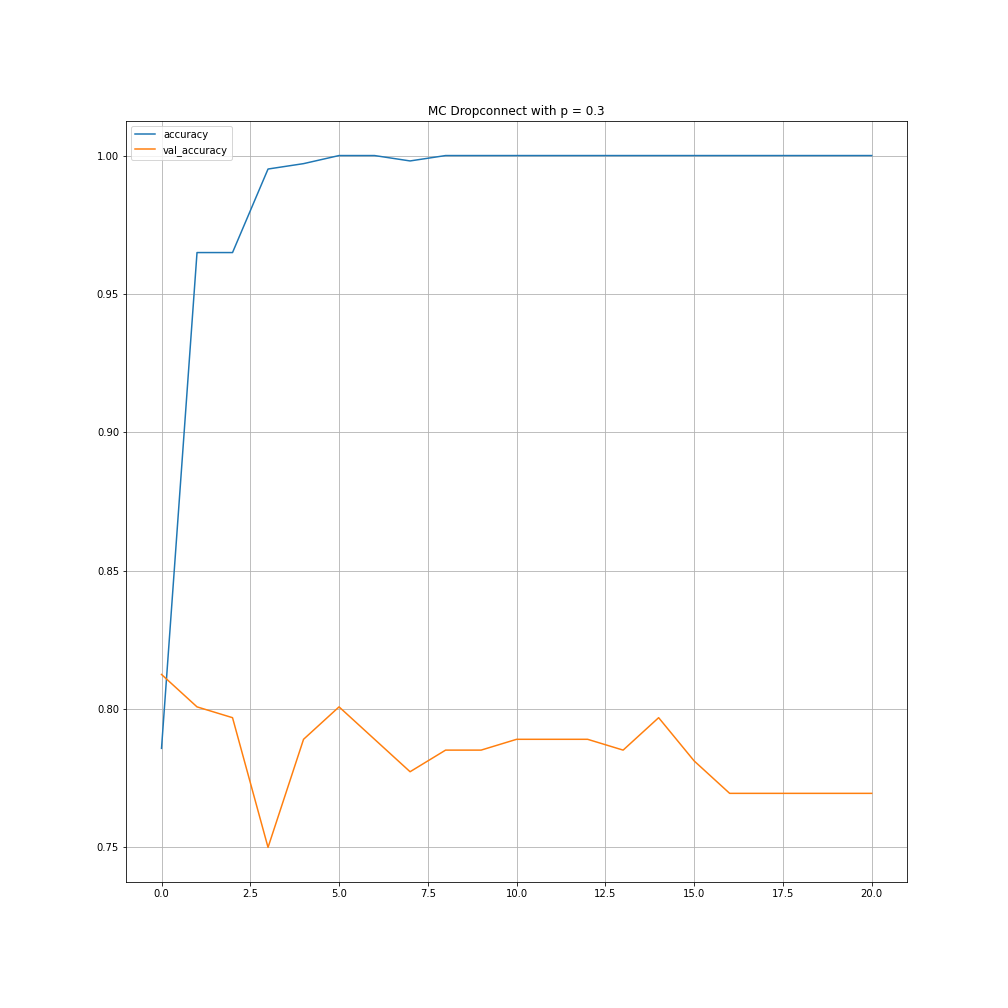
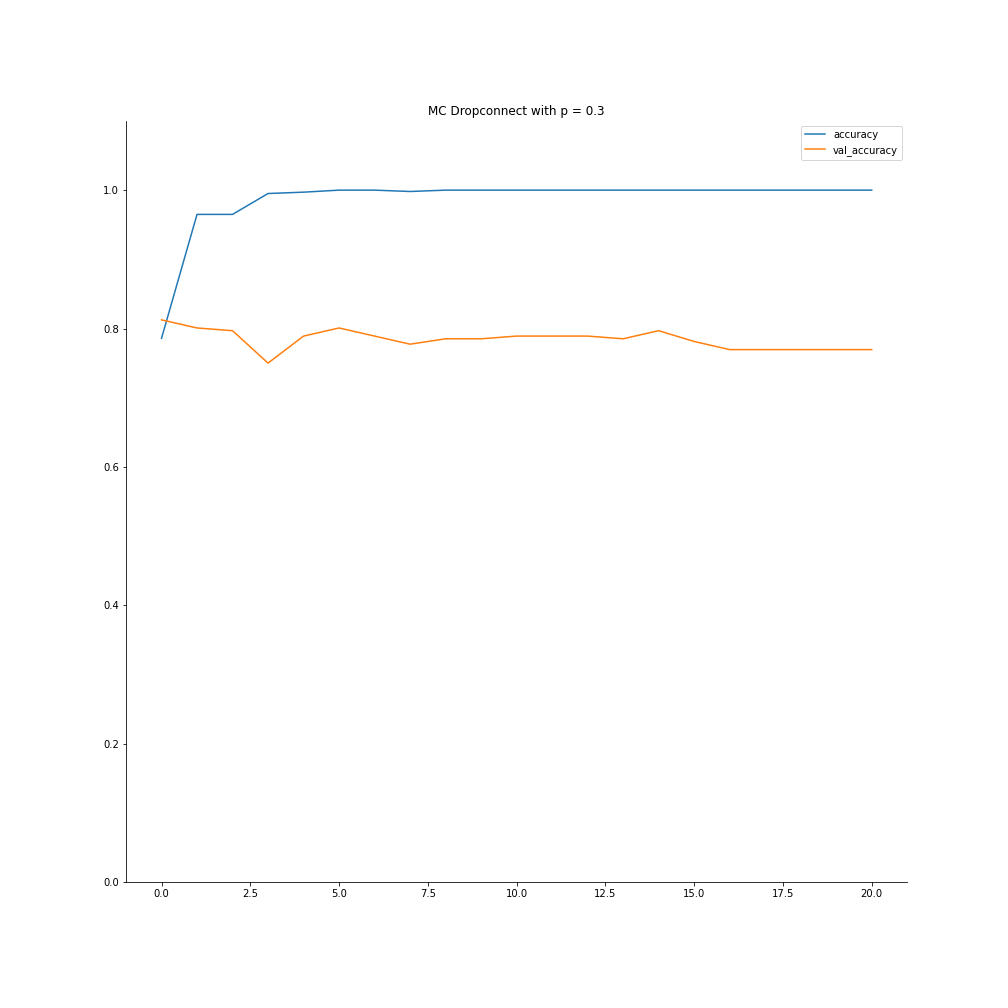
Reorganized plotting file and separated helper functions.

diff --git a/code/dropout_plotting.py b/code/dropout_plotting.py
@@ -1,24 +1,20 @@
 #%%
 
-import itertools
 import matplotlib.pyplot as plt
-import numpy as np
 import os
-import pandas as pd
 import pathlib
 import pickle
 import PIL
 import random
-import regex as re
-from tqdm import tqdm
 
 import tensorflow as tf
 import tensorflow_datasets as tfds
+
+from helper_functions import evaluate_measures, plot_history, plot_measures, load_measures
 from HH_CNN import CNNDropConnect, CNNDropout, CNNPlotter
 os.chdir(os.path.dirname(os.path.realpath(__file__)))
 
 #Global Variables
-tf.random.set_seed(1234)
 DATA_DIR = pathlib.Path("horse_or_human")
 LABELS = {0: "horse", 1: "human"}
 CHECKPOINT_PATH = "checkpoints"
@@ -26,54 +22,6 @@ SAVEPATH = "figs"
 modelnames = ["dropout_p5", "dropout_p7", "dropconnect_p3", "dropconnect_p5"]
 os.makedirs(SAVEPATH, exist_ok=True)
 
-#Helper Function
-
-def plot_history(history, cols, title=""):
-    results = pd.DataFrame(history)
-    results = results.loc[:, cols]
-    fig, ax = plt.subplots(figsize=(14,14))
-    ax = results.plot(ax=ax)
-    ax.set_title(title)
-    ax.grid(True)
-    return fig
-
-def evaluate_measures(SAVEPATH, model_titles, plotters, use_mc, datasets, dataset_names, 
-                      out_sample, wrong_color, max_batches=5, T = 10):
-    for (title, plotter, mc) in zip(model_titles, plotters, use_mc):
-        for dataset_name, dataset, out, color in zip(dataset_names, datasets, out_sample, wrong_color):
-            loader = iter(dataset)
-            plotter.reset_measures()
-            for _ in tqdm(range(min(max_batches, len(dataset)))):
-                images, labels = next(loader)
-                plotter.gather_measures(images, labels, out_sample=out, mc=mc, T=T)
-            with open (os.path.join(SAVEPATH, f"{title}_{dataset_name}_measures.pkl"), "wb") as outfile:
-                pickle.dump((plotter.correct_scores, plotter.wrong_scores), outfile)
-            print(f"Measures saved for {title} {dataset_name}")
-            wrong_label = dataset_name if out else "Wrong"
-            if out:
-                new_fig = False
-            else:
-                new_fig = True
-            plotter.plot_measures(title=f"{title}", out_sample=out, wrong_color=color, 
-                                  wrong_label=wrong_label, new_fig=new_fig)
-        model_title = title.replace(" ", "_")
-        plotter.save_fig(os.path.join(SAVEPATH, f"{model_title.lower()}_eval.png"))
-
-
-#%%
-#Plot some horses and some humans
-humans = list(DATA_DIR.glob('*/humans/*'))
-horses = list(DATA_DIR.glob('*/horses/*'))
-horse_sample = [PIL.Image.open(str(horse)) for horse in random.sample(horses, 8)]
-human_sample = [PIL.Image.open(str(human)) for human in random.sample(humans, 8)]
-
-cnn_plotter = CNNPlotter()
-cnn_plotter.plot_batch(horse_sample, 2, 4, figsize=(8, 16))
-cnn_plotter.fig
-
-#%%
-cnn_plotter.plot_batch(human_sample, 2, 4, figsize=(8, 16))
-cnn_plotter.fig
 #%%
 #Load the data
 batch_size = 16
@@ -117,48 +65,20 @@ mc_dropconnect.compile(optimizer=optimizer, loss=loss_fn)
 mc_dropout.load_weights(os.path.join(CHECKPOINT_PATH, modelnames[0]))
 mc_dropconnect.load_weights(os.path.join(CHECKPOINT_PATH, modelnames[2]))
 
+#%%
+#Plot some horses and some humans
+humans = list(DATA_DIR.glob('*/humans/*'))
+horses = list(DATA_DIR.glob('*/horses/*'))
+horse_sample = [PIL.Image.open(str(horse)) for horse in random.sample(horses, 8)]
+human_sample = [PIL.Image.open(str(human)) for human in random.sample(humans, 8)]
+
+cnn_plotter = CNNPlotter()
+cnn_plotter.plot_batch(horse_sample, 2, 4, figsize=(8, 16))
+cnn_plotter.fig
 
 #%%
-#Plot our training losses
-
-with open(os.path.join(CHECKPOINT_PATH, f"{modelnames[0]}_history.pkl"), "rb") as infile:
-    dropout_hist = pickle.load(infile)
-
-with open(os.path.join(CHECKPOINT_PATH, f"{modelnames[2]}_history.pkl"), "rb") as infile:
-    dropconnect_hist = pickle.load(infile)
-
-#Plot our losses
-
-dropout_acc_fig = plot_history(dropout_hist, ["accuracy", "val_accuracy"], "MC Dropout with p = 0.5")
-dropconnect_acc_fig = plot_history(dropconnect_hist, ["accuracy", "val_accuracy"], "MC Dropconnect with p = 0.3")
-
-dropout_acc_fig.savefig(os.path.join(SAVEPATH, "dropout_acc.png"), facecolor="white", transparent=False)
-dropconnect_acc_fig.savefig(os.path.join(SAVEPATH, "dropconnect_acc.png"), facecolor="white", transparent=False)
-#%%
-
-fig_files = os.listdir(SAVEPATH)
-
-pkl_filter = re.compile(r'^.*pkl')
-
-pkl_files = list(filter(pkl_filter.search, fig_files))
-
-models = ["softmax", "dropout", "dropconnect"]
-datasets = ["horse", "cat", "flower"]
-scores = ["correct", "wrong"]
-
-measures = {}
-
-for m in models:
-    m_filter = re.compile(fr'^.*(?i){m}.*')
-    m_files = list(filter(m_filter.search, pkl_files))
-    for d in datasets:
-        d_filter = re.compile(fr'^.*(?i){d}.*')
-        d_files = list(filter(d_filter.search, m_files))
-        with open (os.path.join(SAVEPATH, d_files[0]), "rb") as infile:
-            correct, wrong = pickle.load(infile)
-        measures[f"{m}_{d}_correct"] = correct
-        measures[f"{m}_{d}_wrong"] = wrong
-
+cnn_plotter.plot_batch(human_sample, 2, 4, figsize=(8, 16))
+cnn_plotter.fig
 
 #%%
 #Plot some predictions!
@@ -187,37 +107,90 @@ for m in models:
 # cnn_plotter.plot_batch(images, 4, 4, predict=True, mc=True, T=100)
 # flowers_fig = cnn_plotter.fig
 
-# %%
-model_titles = ["Softmax", "MC Dropout", "MC DropConnect"]
-use_mc = [False, True, True]
-plotters = [
-    CNNPlotter(mc_dropout, labels=LABELS),
-    CNNPlotter(mc_dropout, labels=LABELS),
-    CNNPlotter(mc_dropconnect, labels=LABELS)
-]
-datasets = [
-    val_ds, 
-    catsdogs["train"],
-    flowers["train"]
-]
-dataset_names = [
-    "Horse and Human",
-    "Cats and Dogs",
-    "Flowers"
-]
-out_sample = [False, True, True]
-wrong_color = ["tab:red", "tab:brown", "tab:olive"]
 
-evaluate_measures(
-    SAVEPATH, 
-    model_titles=["MC DropConnect"], 
-    plotters=[CNNPlotter(mc_dropconnect, labels=LABELS)], 
-    use_mc=[True], 
-    datasets=datasets, 
-    dataset_names=dataset_names, 
-    out_sample=out_sample, 
-    wrong_color=wrong_color,
-    max_batches=16,
-    T=100,
-)
+#%%
+#Plot our training losses
 
+with open(os.path.join(CHECKPOINT_PATH, f"{modelnames[0]}_history.pkl"), "rb") as infile:
+    dropout_hist = pickle.load(infile)
+
+with open(os.path.join(CHECKPOINT_PATH, f"{modelnames[2]}_history.pkl"), "rb") as infile:
+    dropconnect_hist = pickle.load(infile)
+
+#Plot our losses
+
+dropout_acc_fig = plot_history(dropout_hist, ["accuracy", "val_accuracy"], "MC Dropout with p = 0.5")
+dropconnect_acc_fig = plot_history(dropconnect_hist, ["accuracy", "val_accuracy"], "MC Dropconnect with p = 0.3")
+
+dropout_acc_fig.savefig(os.path.join(SAVEPATH, "dropout_acc.png"), facecolor="white", transparent=False)
+dropconnect_acc_fig.savefig(os.path.join(SAVEPATH, "dropconnect_acc.png"), facecolor="white", transparent=False)
+#%%
+
+#Load Prediction Measures
+
+models = ["softmax", "dropout", "dropconnect"]
+datasets = ["horse", "cat", "flower"]
+types = ["correct", "wrong"]
+colors = ["tab:blue", "tab:orange", "tab:purple", "tab:olive"]
+data_titles = {"horse": "Horse and Human", "cat": "Cats vs Dogs", "flower": "Flowers"}
+
+measures = load_measures(SAVEPATH, models, datasets)
+
+#%%
+#Plot Prediction Measures
+
+datset_figs = []
+for data in datasets:
+    scores = [f"{m}_{data}_wrong" for m in models]
+    labels = [m.capitalize() for m in models]
+    datset_figs.append(plot_measures(measures, scores, colors, labels, title=data_titles[data])) 
+
+comp_fig, axs = plt.subplots(3, 1, figsize=(15, 15), tight_layout=True, sharey=False, sharex=True)
+for ax, model in zip(axs.ravel(), models):
+    plot_measures(
+        measures, 
+        scores=[f"{model}_horse_{t}" for t in types], 
+        colors=colors, 
+        labels=[t.capitalize() for t in types], 
+        ax=ax, 
+        title=model.capitalize()
+    )
+comp_fig.text(x=0.35, y = 3.35, s="Horse and Human Classification", fontsize=20, transform=ax.transAxes)
+
+
+#%%
+
+#Measure Evaluation
+
+# model_titles = ["Softmax", "MC Dropout", "MC DropConnect"]
+# use_mc = [False, True, True]
+# plotters = [
+#     CNNPlotter(mc_dropout, labels=LABELS),
+#     CNNPlotter(mc_dropout, labels=LABELS),
+#     CNNPlotter(mc_dropconnect, labels=LABELS)
+# ]
+# datasets = [
+#     val_ds, 
+#     catsdogs["train"],
+#     flowers["train"]
+# ]
+# dataset_names = [
+#     "Horse and Human",
+#     "Cats and Dogs",
+#     "Flowers"
+# ]
+# out_sample = [False, True, True]
+# wrong_color = ["tab:red", "tab:brown", "tab:olive"]
+
+# evaluate_measures(
+#     SAVEPATH, 
+#     model_titles=["MC DropConnect"], 
+#     plotters=[CNNPlotter(mc_dropconnect, labels=LABELS)], 
+#     use_mc=[True], 
+#     datasets=datasets, 
+#     dataset_names=dataset_names, 
+#     out_sample=out_sample, 
+#     wrong_color=wrong_color,
+#     max_batches=16,
+#     T=100,
+# )

diff --git a/code/helper_functions.py b/code/helper_functions.py
@@ -1,0 +1,77 @@
+import matplotlib.pyplot as plt
+import os
+import pandas as pd
+import pickle
+import regex as re
+import seaborn as sns
+from tqdm import tqdm
+
+
+def plot_history(history, cols, title=""):
+    results = pd.DataFrame(history)
+    results = results.loc[:, cols]
+    fig, ax = plt.subplots(figsize=(14,14))
+    ax = results.plot(ax=ax)
+    ax.set_ylim(0,1.1)
+    ax.set_title(title)
+    ax.spines["top"].set_visible(False)
+    ax.spines["right"].set_visible(False)
+    return fig
+
+def evaluate_measures(SAVEPATH, model_titles, plotters, use_mc, datasets, dataset_names, 
+                      out_sample, wrong_color, max_batches=5, T = 10):
+    for (title, plotter, mc) in zip(model_titles, plotters, use_mc):
+        for dataset_name, dataset, out, color in zip(dataset_names, datasets, out_sample, wrong_color):
+            loader = iter(dataset)
+            plotter.reset_measures()
+            for _ in tqdm(range(min(max_batches, len(dataset)))):
+                images, labels = next(loader)
+                plotter.gather_measures(images, labels, out_sample=out, mc=mc, T=T)
+            with open (os.path.join(SAVEPATH, f"{title}_{dataset_name}_measures.pkl"), "wb") as outfile:
+                pickle.dump((plotter.correct_scores, plotter.wrong_scores), outfile)
+            print(f"Measures saved for {title} {dataset_name}")
+            wrong_label = dataset_name if out else "Wrong"
+            if out:
+                new_fig = False
+            else:
+                new_fig = True
+            plotter.plot_measures(title=f"{title}", out_sample=out, wrong_color=color, 
+                                  wrong_label=wrong_label, new_fig=new_fig)
+        model_title = title.replace(" ", "_")
+        plotter.save_fig(os.path.join(SAVEPATH, f"{model_title.lower()}_eval.png"))
+
+def load_measures(SAVEPATH, models, datasets):
+    fig_files = os.listdir(SAVEPATH)
+    pkl_filter = re.compile(r'^.*pkl')
+    pkl_files = list(filter(pkl_filter.search, fig_files))
+    measures = {}
+    for m in models:
+        m_filter = re.compile(fr'^.*(?i){m}.*')
+        m_files = list(filter(m_filter.search, pkl_files))
+        for d in datasets:
+            d_filter = re.compile(fr'^.*(?i){d}.*')
+            d_files = list(filter(d_filter.search, m_files))
+            with open (os.path.join(SAVEPATH, d_files[0]), "rb") as infile:
+                correct, wrong = pickle.load(infile)
+            measures[f"{m}_{d}_correct"] = correct
+            measures[f"{m}_{d}_wrong"] = wrong
+    return measures
+
+def plot_measures(measures_dict, scores, colors, labels, ax = None, title=""):
+    if ax == None:
+        fig, ax = plt.subplots(figsize=(12,12), tight_layout=True)
+    colors = colors[:len(scores)]
+    for score, color, label in zip(scores, colors, labels):
+        sns.distplot(x=measures_dict[score], ax=ax, rug=True, kde=True, hist=False, 
+                    kde_kws={"fill": True}, color=color, label=label)
+    ax.set_xlabel("Uncertainty Measure")
+    ax.axvline(0, color="black", linestyle="dashed")
+    ax.spines["top"].set_visible(False)
+    ax.spines["right"].set_visible(False)
+    ax.set_xlim(-0.05, 0.4)
+    ax.set_title(title, fontsize=18)
+    ax.legend()
+    try:
+        return fig
+    except UnboundLocalError:
+        pass
